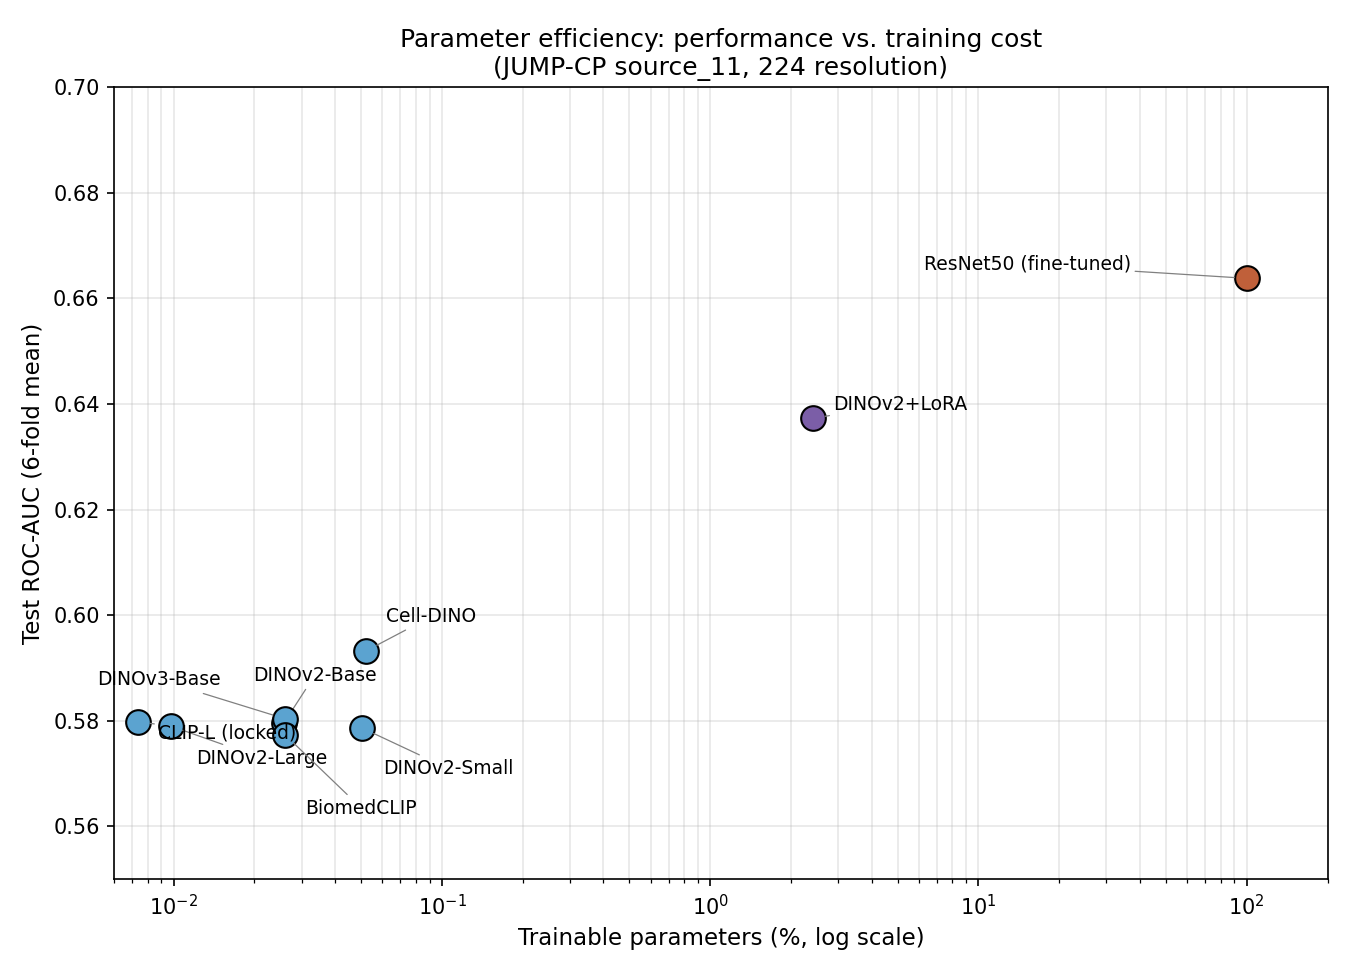
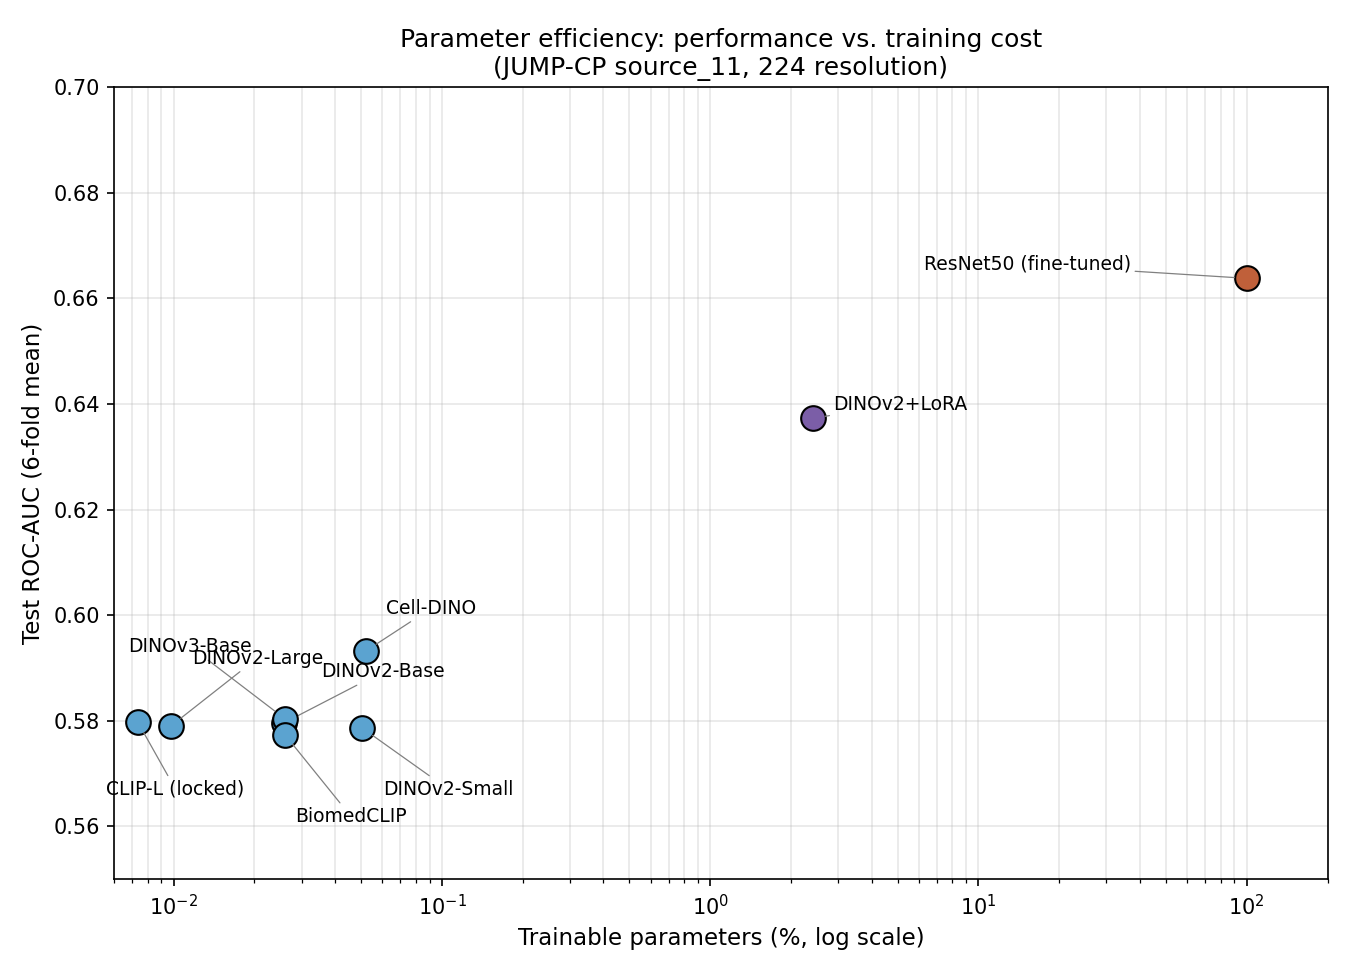
Fix Fig H label overlap in the now-crowded frozen-probe cluster

Changed region(s): [[0.0933, 0.7385, 0.3733, 0.8615], [0.0622, 0.6462, 0.3422, 0.7077], [0.28, 0.6154, 0.3733, 0.6462]]

diff --git a/make_pr_calibration_pareto.py b/make_pr_calibration_pareto.py
@@ -144,13 +144,13 @@ def head_params(dim, n_classes=29):
 # (DINOv2-Base, DINOv2-Large, BiomedCLIP -- all near 0.01-0.03% trainable)
 # don't overlap each other or their own markers.
 PARETO = [
-    ("Cell-DINO",             0.5932, 100 * head_params(384)  / 21_500_000, "frozen",    (10, 14)),
-    ("DINOv2-Base",           0.5796, 100 * head_params(768)  / 86_600_000, "frozen",    (-15, 20)),
-    ("DINOv2-Small",          0.5786, 100 * head_params(384)  / 22_100_000, "frozen",    (10, -22)),
-    ("DINOv2-Large",          0.5790, 100 * head_params(1024) / 304_800_000, "frozen",   (12, -18)),
-    ("DINOv3-Base",           0.5804, 100 * head_params(768)  / 86_000_000, "frozen",    (-90, 16)),  # ViT-B, ~86M assumed (768-dim matches DINOv2-Base scale; not wired into this repo's models.py)
-    ("BiomedCLIP",            0.5774, 100 * head_params(768)  / 86_000_000, "frozen",    (10, -38)),  # ViT-B/16 vision tower, ~86M
-    ("CLIP-L (locked)",       0.5798, 100 * head_params(768)  / 304_000_000, "frozen",   (10, -8)),
+    ("Cell-DINO",             0.5932, 100 * head_params(384)  / 21_500_000, "frozen",    (10, 18)),
+    ("DINOv2-Small",          0.5786, 100 * head_params(384)  / 22_100_000, "frozen",    (10, -32)),
+    ("DINOv2-Base",           0.5796, 100 * head_params(768)  / 86_600_000, "frozen",    (18, 22)),
+    ("DINOv3-Base",           0.5804, 100 * head_params(768)  / 86_000_000, "frozen",    (-75, 32)),  # ViT-B, ~86M assumed (768-dim matches DINOv2-Base scale; not wired into this repo's models.py)
+    ("BiomedCLIP",            0.5774, 100 * head_params(768)  / 86_000_000, "frozen",    (5, -42)),  # ViT-B/16 vision tower, ~86M
+    ("DINOv2-Large",          0.5790, 100 * head_params(1024) / 304_800_000, "frozen",   (10, 30)),
+    ("CLIP-L (locked)",       0.5798, 100 * head_params(768)  / 304_000_000, "frozen",   (-15, -35)),
     ("DINOv2+LoRA",           0.6373, 100 * 0.54 / 22.4, "lora",                          (10, 4)),
     ("ResNet50 (fine-tuned)", 0.6638, 100.0, "finetuned",                                 (-155, 4)),
 ]
